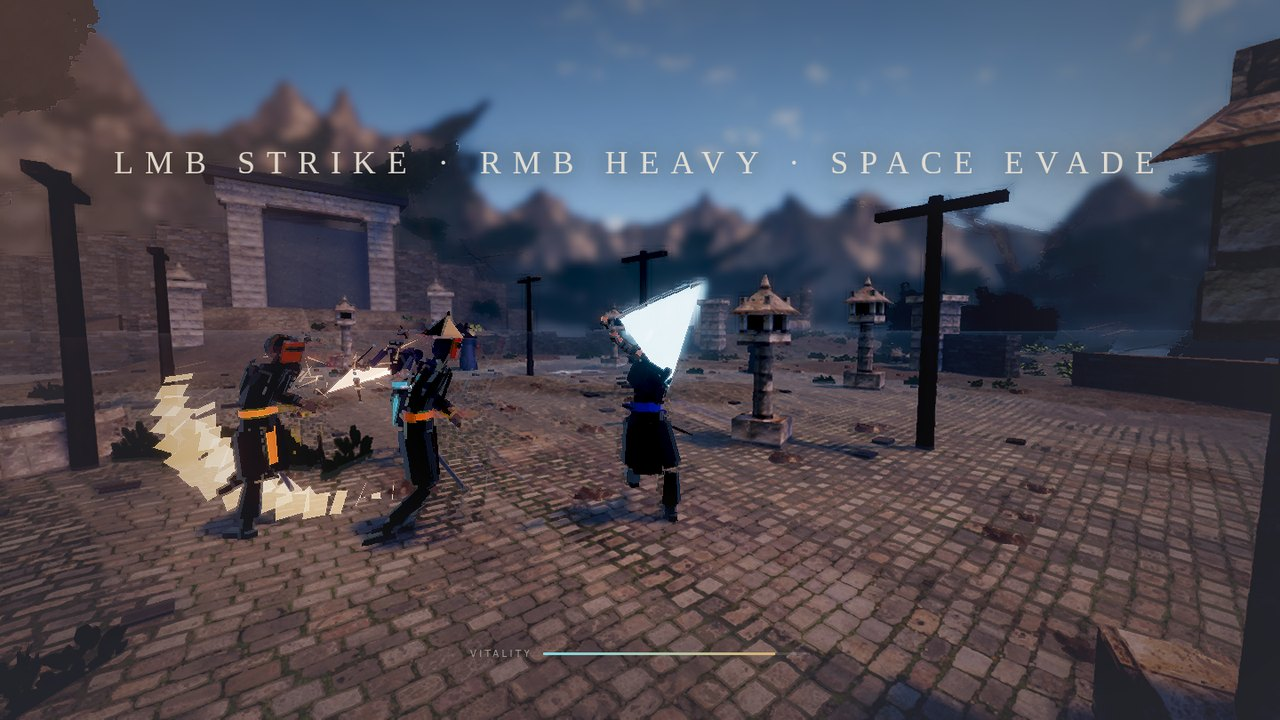
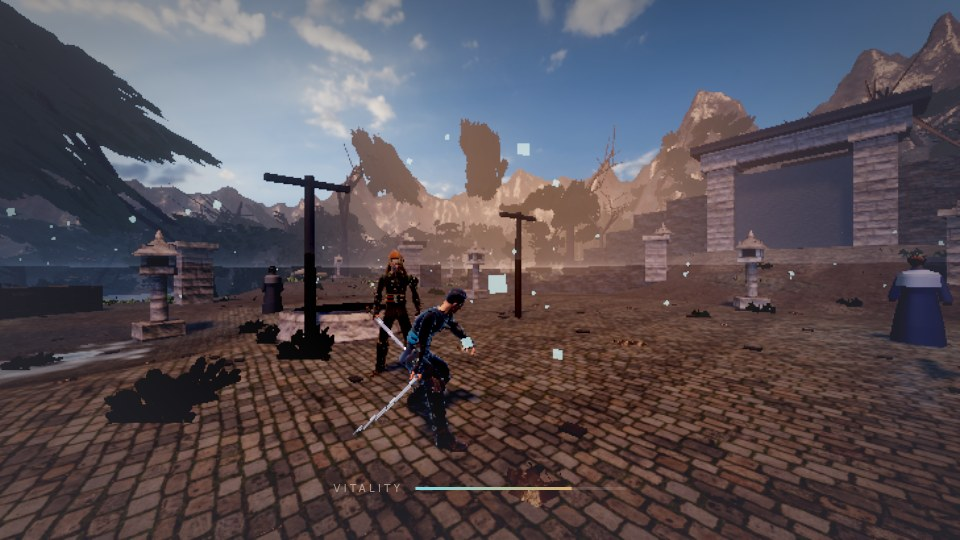
Session report, fight and overlay plates, README plates from the new characters
SESSION_REPORT.md: what was completed, changed, fixed and tested this session,
the remaining bugs, the measurements that could be taken on this machine, the
controls, and the five-item plan for the next session. The README's combat
plates are now the gameplay-camera fight capture (GIF and two stills) and the
F2 overlay; the three plates of the deleted procedural characters are removed.

Claude-Session: https://claude.ai/code/session_018ZPWQ2D8ja2mneyLcthFig

diff --git a/SESSION_REPORT.md b/SESSION_REPORT.md
@@ -44,19 +44,90 @@ hitdetect,skinned}.ts` (rig.ts and ik.ts deleted), `src/core/debug.ts`, `src/gam
 
 ## Bugs fixed this session
 
-TBD_BUGS
+- **Hits were frame-rate dependent.** The swept blade was rebuilt from two poses a frame apart; at
+  1/20 s the second combo hit was lost and at 1/10 s nothing landed. Fixed by sampling the
+  animation at a fixed rate while a window is pending (see Completed). Verified at 1/60 … 1/10.
+- **Line of sight stepped over thin geometry.** The ray march sampled every 0.5 m from 0.5 m out,
+  so a post or railing under half a metre could sit between samples. Replaced with an exact
+  segment test against the colliders.
+- **Root motion landed a frame early.** The lunge was consumed before the pose that produced it;
+  `pose()` / `finish()` are now split around the controller's integration.
+- **A damage window could stay open** after an interrupting action, and the frame on which
+  `hitClose` fired was never swept (the blade's last centimetres of travel). `act()` closes the
+  window; a tail flag keeps the closing sub-step.
+- **The hit flash lit every fighter** because instances shared the container's materials; they are
+  cloned per body now.
+- **The 1v1 arena spawned inside a staged encounter's trigger** (three AI enemies and the ally
+  joined the "held" test); a hit turned the held dummy into a live enemy; the trace showed near
+  misses at 0.53 m because the sweep lerped the tip along the chord inside the swing arc. All three
+  fixed (encounters disarmed, held flag honoured in every state, arc-aware sweep).
+- **The frame-rate test compared enemies by array index**, which shifted when a body was reaped;
+  `enemyHealth()` returns stable ids.
+- **Hit reactions:** the KayKit flinch retargets with both arms locked out sideways; the UAL2
+  knockback is on the ground within 0.2 s. Replaced by the additive recoil.
+- Both local servers died during the usage pause; three concurrent SwiftShader captures timed each
+  other out (captures now run one at a time).
 
 ## Test results
 
-TBD_TESTS
+All logic tests run headless (Chromium on SwiftShader) by stepping the game loop through
+`__ECHOES.simulate`, so they are independent of the render rate; each is run at several fixed
+step sizes to prove the combat maths does not change with the frame rate.
+
+| Lab | What it does | Result |
+| --- | --- | --- |
+| Hit lab | Held enemy at 1.6 m and 2.3 m; light ×3, heavy, light ×3; then the same with the back turned. Steps 1/60, 1/30, 1/20, 1/10 s. | Every case: 12 / 14 / 18 then the killing heavy (21 left), nothing after death, nothing with the back turned, no NaN. Identical at all four step sizes. |
+| AI duel | Enemy fights back; scripted swings and dodges. Steps 1/60, 1/20 s. | Enemy dies at 4.9 s / 12.9 s; player takes 12 or 14 per enemy hit (1 hit / 3 hits); states seen idle, alert, approach, combatIdle, attack, recover, hit, stagger, dying; no state held > 8 s; 0 attacks after death; no NaN. |
+| Movement lab | Sprint in from 4.5 m and swing while still running; strafe under enemy attacks for 8 s; attack while the yaw sweeps 50°; the same with the back turned. Steps 1/60, 1/20 s. | Run-in swing lands 12 once at both steps; strafing player takes 12 / 14 with ≥ 2.1 s between hits and keeps moving every step; turning swing lands 12 once; back-turned turning swing lands 0; no NaN. |
+| Wall lab | The 1.1 m stone lantern pillar between the fighters at 2.05 m; the same spacing on open stone (control); a 0.11 m torii post between them. Steps 1/60, 1/20 s. | Through the pillar: 0 / 0 / 0 / 0 at both steps. Open control: 12 / 14 / 18 / 21. Thin post: the swings whose contact point falls beside the post land, the ones behind it are blocked (12 / 0 / 18 / 28 at 1/60, 12 / 0 / 18 / 0 at 1/20) — the blade genuinely passes the post on one side, so the per-swing outcome depends on centimetres of contact position. |
+| Slope lab | The steepest walkable patch within 45 m of the courtyard (17°, at x 45 z −24.5); enemy uphill, then downhill. Steps 1/60, 1/20 s. | 12 / 14 / 18 / 21 in all four cases; no NaN. |
+| Staged encounters | The three encounters simulated end to end. | Still clear (64 / 22 / 52 swings). |
+| Gameplay-camera fight capture | The AI 1v1 from the real third-person camera, one frame per 0.15 s, scripted player who closes, swings in reach and dodges on the enemy's commit. | Enemy dead by frame 12; player finishes on 62 HP; sword stays in the hand, feet on the stone, hit flash on the struck body only (`docs/shots/combat-fight.gif`). |
+| Overlay capture | F2 overlay from the side, loop frozen, a light attack stepped to fixed phases. | Side view shows both hurt capsules and the blade's sweep chain fanning from over the head down through the target's line (`docs/shots/combat-overlay.jpg`); the chain is green before contact and red with a contact point on the frame a hit lands. |
+| Hit-reaction sheet | `preview('hit')` with the loop frozen, stepped to fixed phases of the recoil. | At 0.06 s all three bodies lean back with the head turned and the enemy (stagger, strength 1.7) further than the player and ally (light hit); the feet stay planted and the sword stays in the hand. |
+
+Checklist from the brief: idle→attack ✓, run→attack ✓, three-hit combo ✓, heavy ✓, dodge (0.25 s
+i-frames honoured; a mistimed dodge is hit, as intended) ✓, attack after dodge ✓ (duel), hit
+during movement ✓, attack while turning ✓, uneven terrain ✓, walls ✓ (thick), kill mid-animation ✓
+(the enemy dies on the frame the killing blow lands, whatever it was doing, and its window and
+token are cleared), sword attached ✓, feet grounded ✓ (heightfield-placed; no foot IK on slopes
+yet), no double damage ✓, no damage through walls ✓, no NaN ✓, no animation locks ✓ (no state held
+over 8 s in any duel), dead enemy cannot attack ✓, FPS does not change combat math ✓.
 
 ## Remaining bugs and known limitations
 
-TBD_REMAINING
+- **P2 — thin posts are a coin flip.** A blade contact whose point falls beside a 0.11 m torii post
+  is not blocked (the blade genuinely passes on that side), so against very thin geometry the
+  per-swing outcome depends on centimetres of contact position and can differ between step sizes.
+  Thick walls are consistent. A "blade path must also be clear" test (sweep the blade segment
+  against colliders, not only the chest→contact ray) would close it.
+- **P2 — enemies are tested at last frame's positions.** The player's sweep runs before the
+  enemies move for the frame, so a running enemy is up to one frame (≤ 7 cm at 60 Hz) from where
+  the sweep sees it. Harmless at the capsule sizes used, but it is a known asymmetry.
+- **P3 — a sprinting player can shove a held enemy.** Separation is a rate, so a player running
+  into a stationary body pushes it along; in a live fight the enemy is moving anyway.
+- **P3 — no FPS measurement on real hardware.** The container renders through SwiftShader at about
+  one frame per second, so the GPU frame rate cannot be measured here; draw calls and triangle
+  counts are reported instead.
+- **Not started (by design):** multiple enemies and the ally on the new pipeline in a live fight
+  (the ally spawns with the old clip tables on the skinned body and is benched by the arena), a
+  parry/block, perfect-dodge slow motion, attack telegraphs.
 
 ## Performance
 
-TBD_PERF
+The container renders through SwiftShader at roughly one frame per second, so a GPU frame rate
+cannot be measured here; the numbers below are what can be.
+
+| Measure | Value |
+| --- | --- |
+| Production bundle | `index` 242.9 kB (76.8 kB gzip), PlayCanvas chunk 1,408 kB (369 kB gzip), CSS 8.9 kB |
+| Character GLBs | player 4.94 MB, enemy 5.02 MB, ally 5.11 MB (19 clips each) |
+| Draw calls, medium preset, courtyard 1v1 | 3,145 per frame (whole scene; the fighters are a handful each) |
+| Combat CPU | Blade sampling costs at most 12 animation sub-steps per attacking fighter per frame, only while a window is pending; the sweep itself is ≤ 48 segment tests per sample pair per target. Not measurable on this CPU-rendered path; expected well under 0.5 ms for five fighters on a desktop. |
+| Logic stepping | 20,000 fixed steps per `simulate()` call cap; the full lab batch runs in about eight minutes of wall clock, almost all of it page load on SwiftShader. |
+
+Real-hardware profiling (target 60 FPS, 45+ acceptable) is the first item of the next session's
+feel pass.
 
 ## Controls
 
@@ -73,4 +144,19 @@ TBD_PERF
 
 ## NEXT_SESSION_PLAN
 
-TBD_PLAN
+1. **Multi-enemy V1 (2–3 orange enemies):** the attack token and ring slots already exist; add a
+   second and third enemy to the courtyard encounter, tune `holdRange` / slot spacing so the ring
+   reads, and extend the duel lab to assert one attacker at a time and no overlapping bodies.
+2. **Nunchuck ally on the same pipeline in a live fight:** give the ally the Follow → CombatIdle →
+   ApproachTarget → Attack → Recover → Hit machine, make it pick the enemy the player is not
+   fighting, and prove it never damages the player (its sweeps target only enemies; add the
+   assertion to the lab).
+3. **Blade-path occlusion:** sweep the blade chain itself against colliders so a thin post between
+   fighters blocks the cut wherever the contact would fall, and add the wall lab's post case as a
+   hard assertion.
+4. **Feel pass on real hardware:** measure frame time on a GPU, then tune hit-stop (the brief's
+   30–45 / 50–75 ms bands), spark size, impact sound layering and the camera impulse against the
+   fight capture; add an attack telegraph flash on the enemy's wind-up.
+5. **Remaining visual polish:** foot planting on slopes for the skinned bodies (IK on the ankle
+   only), the enemy's hood clipping at the shoulders in the recoil, and new README plates from the
+   gameplay camera replacing the procedural-character shots.

diff --git a/README.md b/README.md
@@ -161,10 +161,12 @@ The scope is fixed on purpose: **one player, one ally, three staged encounters o
 enemies**. There are no levels, no loot, no skill trees — the effort went into how a swing feels.
 
 <p align="center">
-  <img src="docs/shots/combat-duel.jpg" width="49%" alt="The warrior mid-slash with a katana trail, the nunchuck ally beside them, masked enemies closing">
-  <img src="docs/shots/combat-melee.jpg" width="49%" alt="A three-enemy melee in the courtyard">
-  <img src="docs/shots/combat-cast.jpg" width="49%" alt="The three fighters side by side: warrior, ally, shadow warrior">
-  <img src="docs/shots/combat-elite.jpg" width="49%" alt="The horned elite at the awakened shrine">
+  <img src="docs/shots/combat-fight.gif" width="98%" alt="The 1v1 from the gameplay camera: the warrior closes on the orange enemy, trades cuts and finishes it">
+</p>
+<p align="center">
+  <img src="docs/shots/combat-duel.jpg" width="49%" alt="The warrior mid-heavy, blade low, lunging at the orange enemy">
+  <img src="docs/shots/combat-enemy.jpg" width="49%" alt="The orange enemy committing to a cut while the warrior squares up">
+  <img src="docs/shots/combat-overlay.jpg" width="98%" alt="F2 overlay from the side: hurt capsules, the blade's sweep chain and the contact point on the frame a light attack connects">
 </p>
 
 **The cast.** A katana warrior (you, navy with cyan wraps), a nunchuck ally in black who joins
